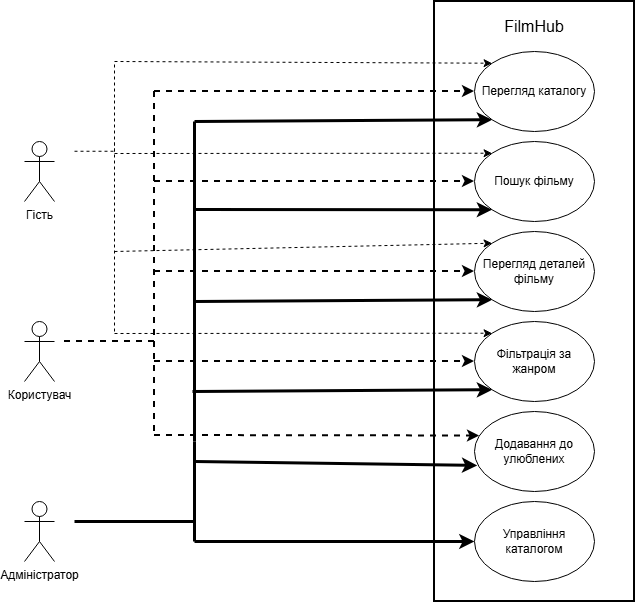
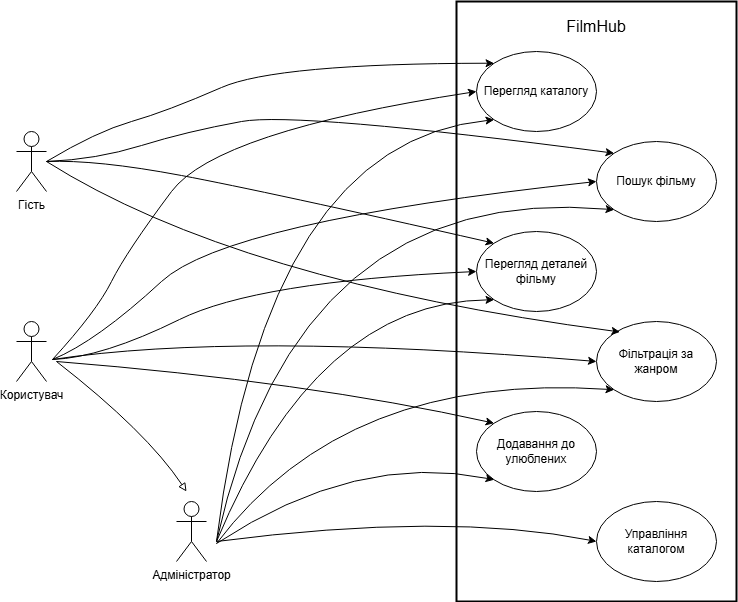
docs: update main report - refined 'Мета роботи' section and corrected Use-case diagram

diff --git a/backend_lr1_Bobruiko.html b/backend_lr1_Bobruiko.html
@@ -210,7 +210,7 @@
         <p>У сучасному світі кількість доступного кіноконтенту зростає щодня. Користувачі потребують зручного інструменту для швидкого пошуку та ознайомлення з інформацією про фільми на будь-яких пристроях. Розробка адаптивного веб-застосунку "FilmHub" дозволяє вирішити проблему зручного доступу до каталогу фільмів, забезпечуючи приємний користувацький досвід незалежно від розміру екрану.</p>
 
         <h3 id="goal">Мета роботи</h3>
-        <p>Розробити адаптивний веб-застосунок "FilmHub" — онлайн-каталог фільмів з сучасним респонсивним дизайном та зручним інтерфейсом.</p>
+        <p>Метою лабораторної роботи було розробити адаптивний веб-застосунок FilmHub — сучасний онлайн-каталог фільмів з респонсивним дизайном. У рамках роботи буде реалізовано повноцінний фронтенд інтерфейсу: семантичну структуру сторінки (header, main, footer), адаптивну навігацію з бургер-меню, інтерактивну сітку інформаційних карток фільмів із постерами, а також візуальні ефекти та анімації.</p>
 
         <h3 id="tasks">Завдання роботи</h3>
         <ol>
